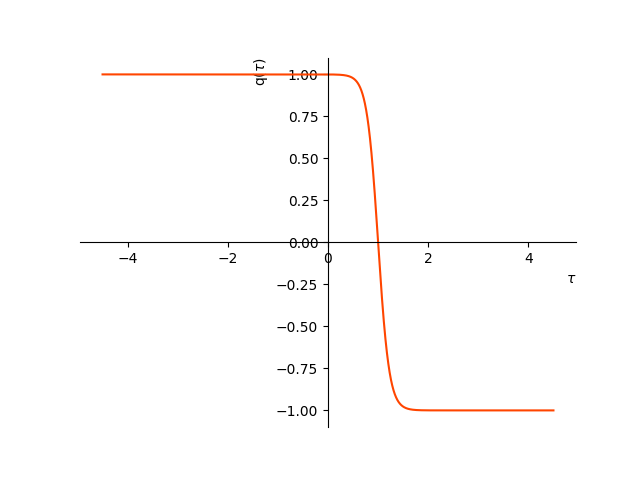
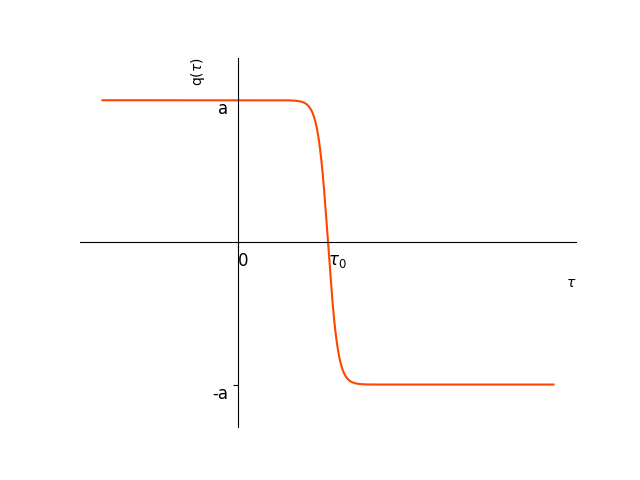
Letter mode add

diff --git a/DW_potential.py b/DW_potential.py
@@ -1,17 +1,27 @@
-
+#import
 from cmath import sqrt
 import numpy as np
 import matplotlib.pyplot as plt
 import os
 
-#Variabili globali
-path = '/home/Desktop/Università/Tesi/Pics'
+#**********************************************
+#Control panel 
+# This code will draws: - potential and second derivative : V (q) = \lambda / 4 (q^2 - a^2)^2 (real and imaginary time)
+#                                                           V_sec = 2*lam*a^22*(1-3/2*(np.cosh(a*(lam/2)^(1/2)*(t-tau0)))^(-2))
+#                       - instanton : q_inst = a*np.tanh(a* (lam/2)^(1/2)*(t - tau0))
+#                       - anti - instanton : q_inst = -a*np.tanh(a* (lam/2)^(1/2)*(t - tau0))
+
+
+
+Letter_mode = True #True: the ticks on x and y axis are generic constant, no number will appear
+
 lam = 40
 a =1
 omega= a*sqrt(2*lam)
-tau0 = 1
+tau0 = 2
 
-
+FunctionColor = 'orangered' #color of the plot
+SecondFunctionColor ='b'
 #----------------------------------------------------------------------------------------
 #Double well potential (real and imaginary time) : V (q) = \lambda / 4 (q^2 - a^2)^2
 
@@ -20,10 +30,9 @@ tau0 = 1
 q = np.linspace(-1.5,1.5,10000)
 V = lam/4 * (q**2-a**2)**2
 
-fig, (ax, ax2) = plt.subplots(1, 2 )
-fig.tight_layout()
+figa, ax = plt.subplots()
 
-ax.spines['left'].set_position('center')
+ax.spines['left'].set_position('zero')
 ax.spines['bottom'].set_position('zero')
 ax.spines['right'].set_color('none')
 ax.spines['top'].set_color('none')
@@ -32,7 +41,22 @@ ax.yaxis.set_ticks_position('left')
 ax.set_ylabel('V(q)', loc='top')
 ax.set_xlabel('q', loc='right')
 
-ax2.spines['left'].set_position('center')
+if Letter_mode:
+    xTicksPot = [-a , a ]
+    yTicksPot = [0, a*a*lam/4]
+    plt.xticks(xTicksPot, ['-a', 'a'])
+    plt.yticks(yTicksPot , ['0' , r'$a^{2}\frac{\lambda}{4}$'])
+    plt.xticks(fontsize=12)
+    plt.yticks(fontsize=12)
+    plt.setp( ax.yaxis.get_majorticklabels(), va="bottom" )
+
+plt.ylim(-2 , a*a*lam/4+3)
+ax.plot(q,V, FunctionColor) #real time
+plt.savefig(os.path.join('Double well potential_r.png'))
+
+figb, ax2= plt.subplots()
+
+ax2.spines['left'].set_position('zero')
 ax2.spines['bottom'].set_position('zero')
 ax2.spines['right'].set_color('none')
 ax2.spines['top'].set_color('none')
@@ -41,25 +65,32 @@ ax2.yaxis.set_ticks_position('left')
 ax2.set_ylabel('V(q)', loc='top')
 ax2.set_xlabel('q', loc='right')
 
-plt.ylim(-2 , 10)
-ax.plot(q,V, 'orangered') #real time
-plt.ylim(-12 , 2)
-ax2.plot(q, -V , 'b') #imaginary time
+if Letter_mode:
+    xTicksPot = [-a , a ]
+    yTicksPot = [-a*a*lam/4 , 0]
+    plt.xticks(xTicksPot, ['-a', 'a'])
+    plt.yticks(yTicksPot , [r'$-a^{2}\frac{\lambda}{4}$', '0'])
+    plt.xticks(fontsize=12)
+    plt.yticks(fontsize=12)
+    plt.setp( ax2.yaxis.get_majorticklabels(), va="top" )
+
+plt.ylim(-a*a*lam/4-3 , 2)
+ax2.plot(q, -V , SecondFunctionColor) #imaginary time
 
 
-plt.savefig(os.path.join('Double well potential.png'))
+plt.savefig(os.path.join('Double well potential_im.png'))
 
 #----------------------------------------------------------------------------------------
 # Single Instanton 
 
 
 
-t = np.linspace (-4.5, 4.5 , 10000)
+t = np.linspace (-3, 7, 10000)
 q_inst= a*np.tanh(a* (lam/2)**(0.5)*(t - tau0))
 
 fig1 , ax3 = plt.subplots()
 
-ax3.spines['left'].set_position('center')
+ax3.spines['left'].set_position('zero')
 ax3.spines['bottom'].set_position('zero')
 ax3.spines['right'].set_color('none')
 ax3.spines['top'].set_color('none')
@@ -68,7 +99,19 @@ ax3.yaxis.set_ticks_position('left')
 ax3.set_ylabel(r'q($\tau)$', loc='top')
 ax3.set_xlabel(r'$\tau$', loc='right')
 
-ax3.plot(t , q_inst, 'orangered')
+if Letter_mode:
+    xTicksInst = [0 ,tau0 ]
+    yTicksInst = [-a , a]
+    plt.xticks(xTicksInst, ['0', r'$\tau_0$'])
+    plt.yticks(yTicksInst , ['-a','a'])
+    plt.xticks(fontsize=12)
+    plt.yticks(fontsize=12)
+    plt.setp( ax3.xaxis.get_majorticklabels(), ha="left" )
+    plt.setp( ax3.yaxis.get_majorticklabels(), va="top" )
+
+
+plt.ylim(-a-0.3,a+0.3)
+ax3.plot(t , q_inst, FunctionColor)
 #ax3.axvspan(tau0 - 1/2/omega , tau0 + 1/2/omega , alpha = 0.5 , color = 'mediumorchid')
 #plt.axhline(y=1 , color='gray' , linestyle='--')
 
@@ -78,16 +121,25 @@ plt.savefig(os.path.join('Instanton.png'))
 # Single anti-instanton
 fig2 , ax4 = plt.subplots()
 
-ax4.spines['left'].set_position('center')
+ax4.spines['left'].set_position('zero')
 ax4.spines['bottom'].set_position('zero')
 ax4.spines['right'].set_color('none')
 ax4.spines['top'].set_color('none')
-ax4.xaxis.set_ticks_position('bottom')
+#ax4.xaxis.set_ticks_position('bottom')
 ax4.yaxis.set_ticks_position('left')
 ax4.set_ylabel(r'q($\tau)$', loc='top')
 ax4.set_xlabel(r'$\tau$', loc='right')
 
-ax4.plot(t , -q_inst, 'orangered')
+if Letter_mode:
+    plt.xticks(xTicksInst, ['0', r'$\tau_0$'])
+    plt.yticks(yTicksInst , ['-a','a'])
+    plt.xticks(fontsize=12)
+    plt.yticks(fontsize=12)
+    plt.setp( ax4.xaxis.get_majorticklabels(), ha="left" )
+    plt.setp( ax4.yaxis.get_majorticklabels(), va="top" )
+
+plt.ylim(-a-0.3,a+0.3)
+ax4.plot(t , -q_inst, FunctionColor)
 #plt.axhline(y=1 , color='gray' , linestyle='--')
 #ax4.axvspan(tau0 - 1/2/omega , tau0 + 1/2/omega , alpha = 0.5 , color = 'mediumorchid')
 plt.savefig(os.path.join('Anti-instanton.png'))
@@ -107,10 +159,21 @@ ax5.yaxis.set_ticks_position('left')
 ax5.set_ylabel(r'V"($\tau)$', loc='top')
 ax5.set_xlabel(r'$\tau$', loc='right')
 
+if Letter_mode:
+    xTicksSec = [0 ,tau0 ]
+    yTicksSec = [-lam*a**2, 2*lam*a**2]
+    plt.xticks(xTicksSec, ['0', r'$\tau_0$'])
+    plt.yticks(yTicksSec , [r'$-a^{2}\lambda$',r'$2a^{2}\lambda$'])
+    plt.xticks(fontsize=12)
+    plt.yticks(fontsize=12)
+    plt.setp( ax5.xaxis.get_majorticklabels(), ha="left" )
+    plt.setp( ax5.yaxis.get_majorticklabels(), va="bottom" )
+
+
 plt.ylim(-55 , 100)
 
 #ax5.axvspan(tau0 - 1/2/omega , tau0 + 1/2/omega , alpha = 0.5 , color = 'mediumorchid')
-ax5.plot(t , V_sec1, 'orangered')
+ax5.plot(t , V_sec1, FunctionColor)
 #plt.axhline(y=1 , color='gray' , linestyle='--')
 
 plt.savefig(os.path.join('DW_pot_secondder.png'))

diff --git a/SG_potential.py b/SG_potential.py
@@ -1,11 +1,21 @@
-#from cmath import sqrt, tanh
+#import
 import numpy as np
 import matplotlib.pyplot as plt
 import os
 
-#Variabili globali
+#**********************************************
+#Control panel 
+# This code will draws: - potential and second derivative : V(q) = g^2(1+np.cos(q))
+#                                                           V_sec = g^2(-1+2*(np.tanh(g*(t-tau0)))^2)
+#                       - instanton : q_inst = 2*np.arcsin(np.tanh((t-tau0)*g))
+
+
+
+Letter_mode = True #True: the ticks on x and y axis are generic constant, no number will appear
+
 g = 1
-tau0 = 1
+tau0 = 3
+FunctionColor = 'orangered' #color of the plot
 
 #Sine Gordon potential 
 
@@ -23,23 +33,33 @@ ax.yaxis.set_ticks_position('left')
 ax.set_ylabel('V(q)', loc='top')
 ax.set_xlabel('q', loc='right')
 
-ticks = np.arange(-5*np.pi , 5*np.pi+1 , step= np.pi)
-plt.xticks(ticks, ['-5π', '-4π', '-3π' , '-2π', '-π', '0', 'π', '2π', '3π', '4π', '5π'])
 
-plt.ylim(-0.4 , 3)
-ax.plot(q,V, 'orangered')
+
+if Letter_mode:
+    xTicksPot = np.arange(-5*np.pi , 5*np.pi+1 , step= np.pi)
+    yTicksPot = [2*g*g]
+    plt.xticks(xTicksPot, ['-5π', '-4π', '-3π' , '-2π', '-π', '0', 'π', '2π', '3π', '4π', '5π'])
+    plt.yticks(yTicksPot , ['g'])
+    plt.xticks(fontsize=12)
+    plt.yticks(fontsize=12)
+    plt.setp( ax.xaxis.get_majorticklabels(), ha="left" )
+    plt.setp( ax.yaxis.get_majorticklabels(), va="bottom" )
+
+
+plt.ylim(-0.4 , (2*g*g)+1)
+ax.plot(q,V, FunctionColor)
 
 plt.savefig(os.path.join('Sine Gordon potential.png'))
 
 #----------------------------------------------------------------------------------------
 #Single instanton
 
-t = np.linspace(-5.5, 6.5, 10000)
+t = np.linspace(-5, 10.5, 10000)
 q_inst = 2*np.arcsin(np.tanh((t-tau0)*g))
 
 fig2 , ax2 = plt.subplots()
 
-ax2.spines['left'].set_position('center')
+ax2.spines['left'].set_position('zero')
 ax2.spines['bottom'].set_position('zero')
 ax2.spines['right'].set_color('none')
 ax2.spines['top'].set_color('none')
@@ -50,7 +70,18 @@ ax2.set_xlabel(r'$\tau$', loc='right')
 
 #plt.axhline(y=np.pi, color='gray' , linestyle='--')
 
-ax2.plot(t, q_inst, 'orangered')
+if Letter_mode:
+    yTicksInst = [-np.pi,np.pi]
+    xTicksInst = [ 0, tau0]
+    plt.yticks (yTicksInst , ['-π', 'π'])
+    plt.xticks(xTicksInst, ['0', r'$\tau_0$'])
+    plt.xticks(fontsize=12)
+    plt.yticks(fontsize=12)
+    plt.setp( ax2.xaxis.get_majorticklabels(), ha="left" )
+    plt.setp( ax2.yaxis.get_majorticklabels(), va="top" )
+    
+
+ax2.plot(t, q_inst, FunctionColor)
 
 plt.savefig(os.path.join('SG_Instanton'))
 
@@ -61,7 +92,7 @@ V_sec = g*g*(-1+2*(np.tanh(g*(t-tau0)))**2)
 
 figg,ax3= plt.subplots()
 
-ax3.spines['left'].set_position('center')
+ax3.spines['left'].set_position('zero')
 ax3.spines['bottom'].set_position('zero')
 ax3.spines['right'].set_color('none')
 ax3.spines['top'].set_color('none')
@@ -70,6 +101,17 @@ ax3.yaxis.set_ticks_position('left')
 ax3.set_ylabel(r'V"($\tau)$', loc='top')
 ax3.set_xlabel(r'$\tau$', loc='right')
 
-ax3.plot(t, V_sec , 'orangered')
+if Letter_mode:
+    yTicksSec = [-g, g]
+    xTicksSec = [ 0, tau0]
+    plt.yticks (yTicksSec , ['-g', 'g'])
+    plt.xticks(xTicksSec, ['0', r'$\tau_0$'])
+    plt.xticks(fontsize=12)
+    plt.yticks(fontsize=12)
+    plt.setp( ax3.xaxis.get_majorticklabels(), ha="left" )
+    plt.setp( ax3.yaxis.get_majorticklabels(), va="bottom" )
+
+plt.ylim((-g*g)-0.3 , g*g+0.3)
+ax3.plot(t, V_sec , FunctionColor)
 
 plt.savefig(os.path.join('SG_pot_secondder.png'))
